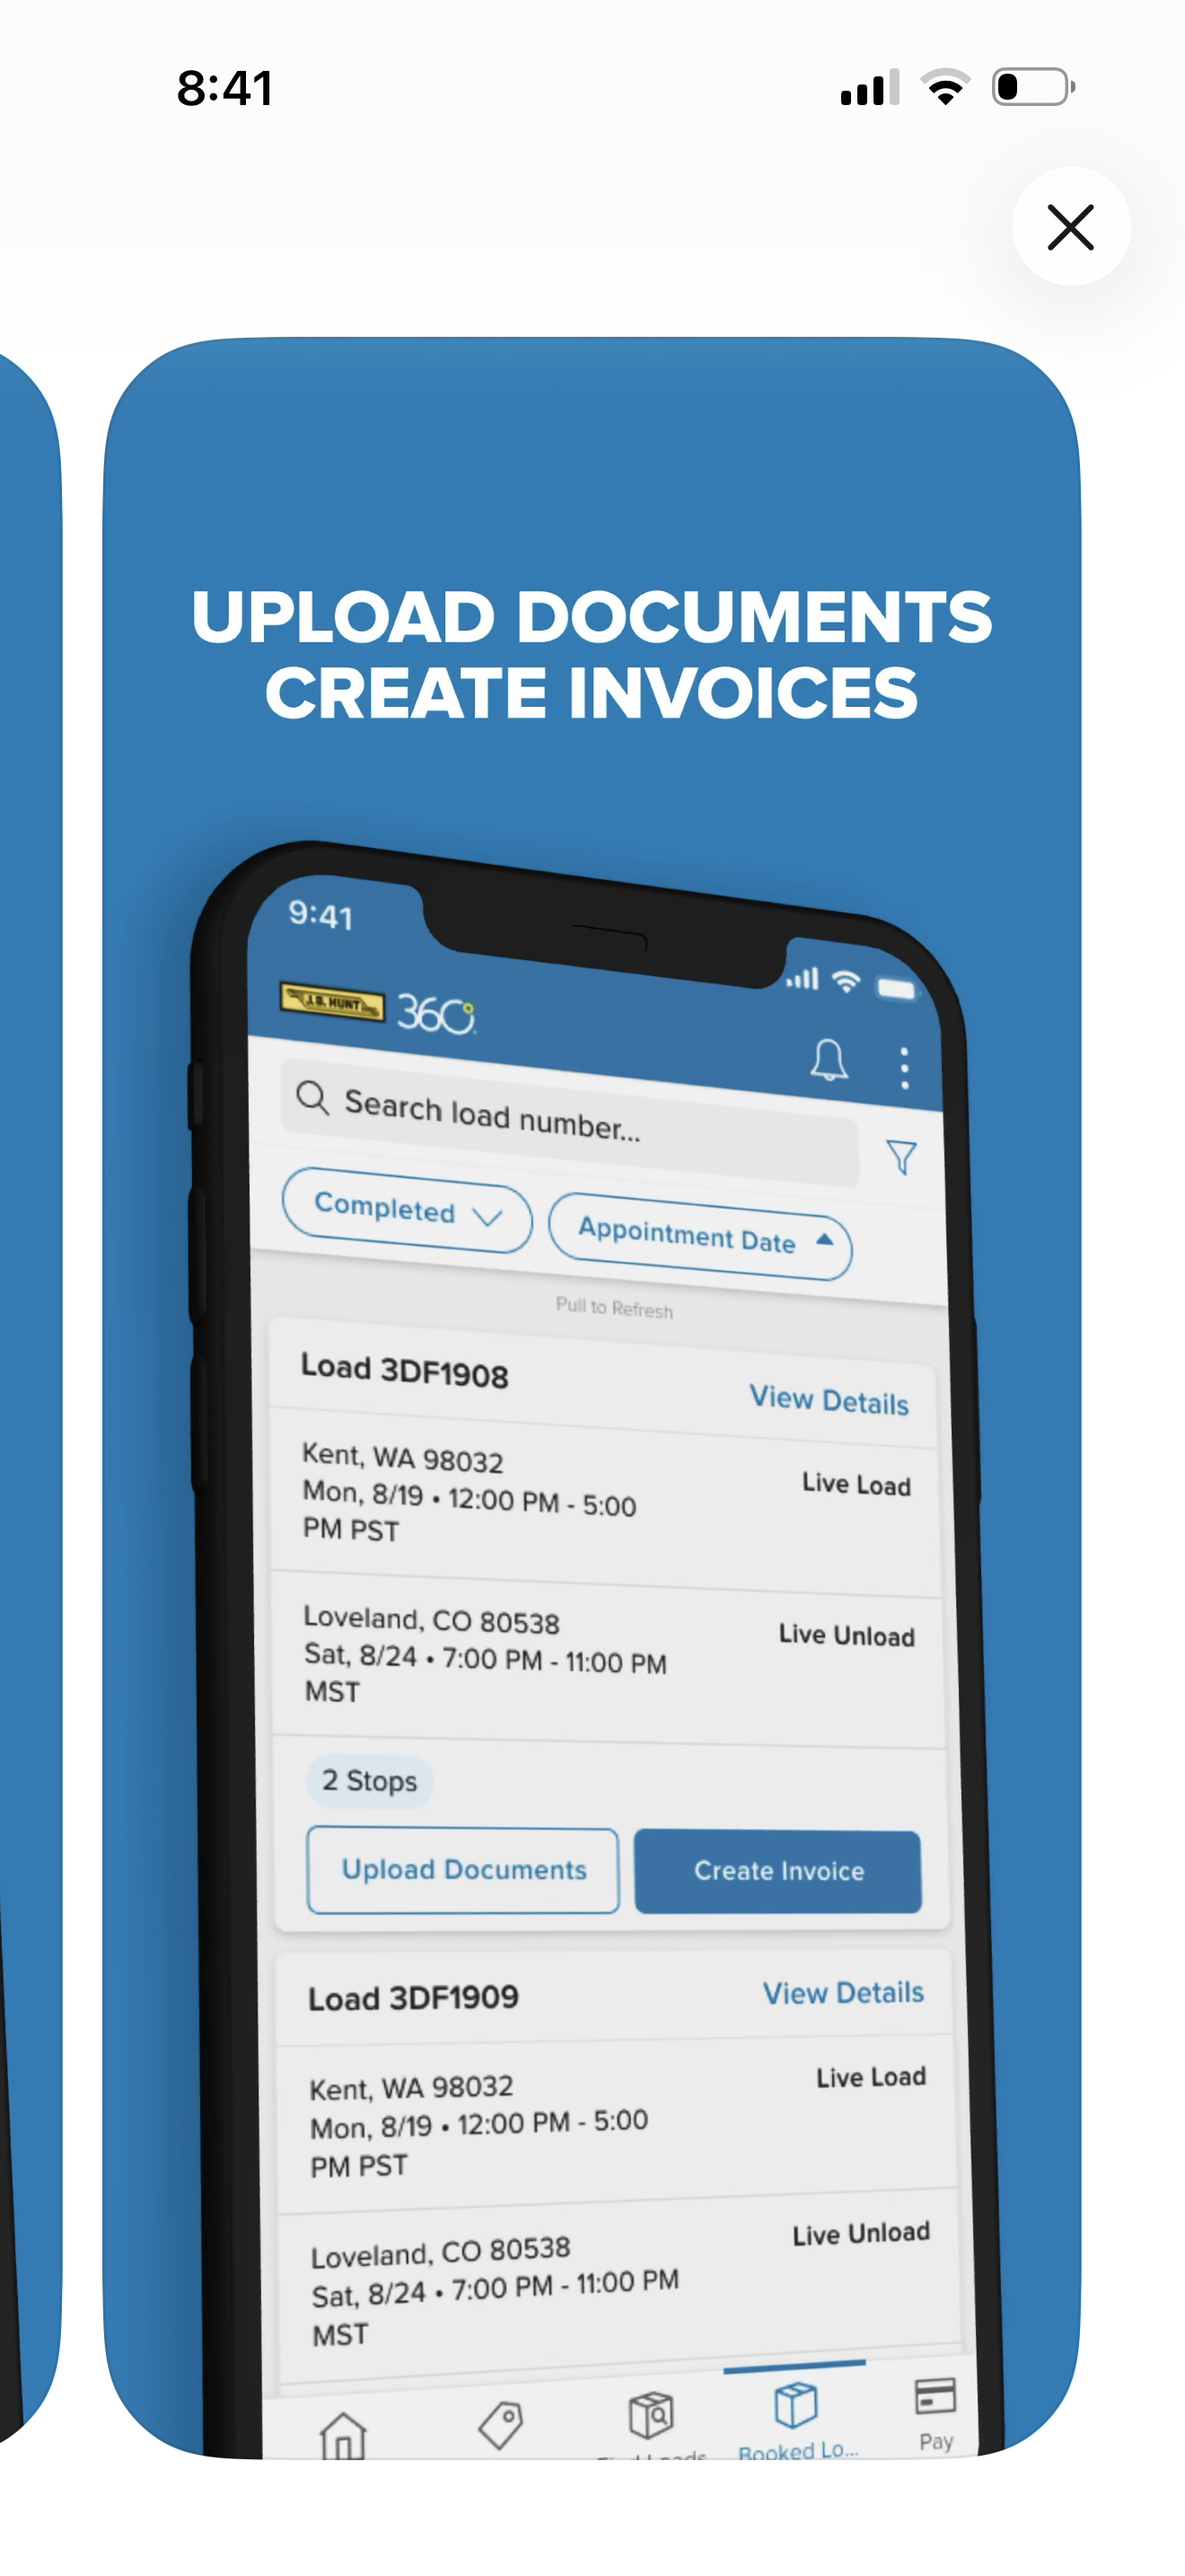
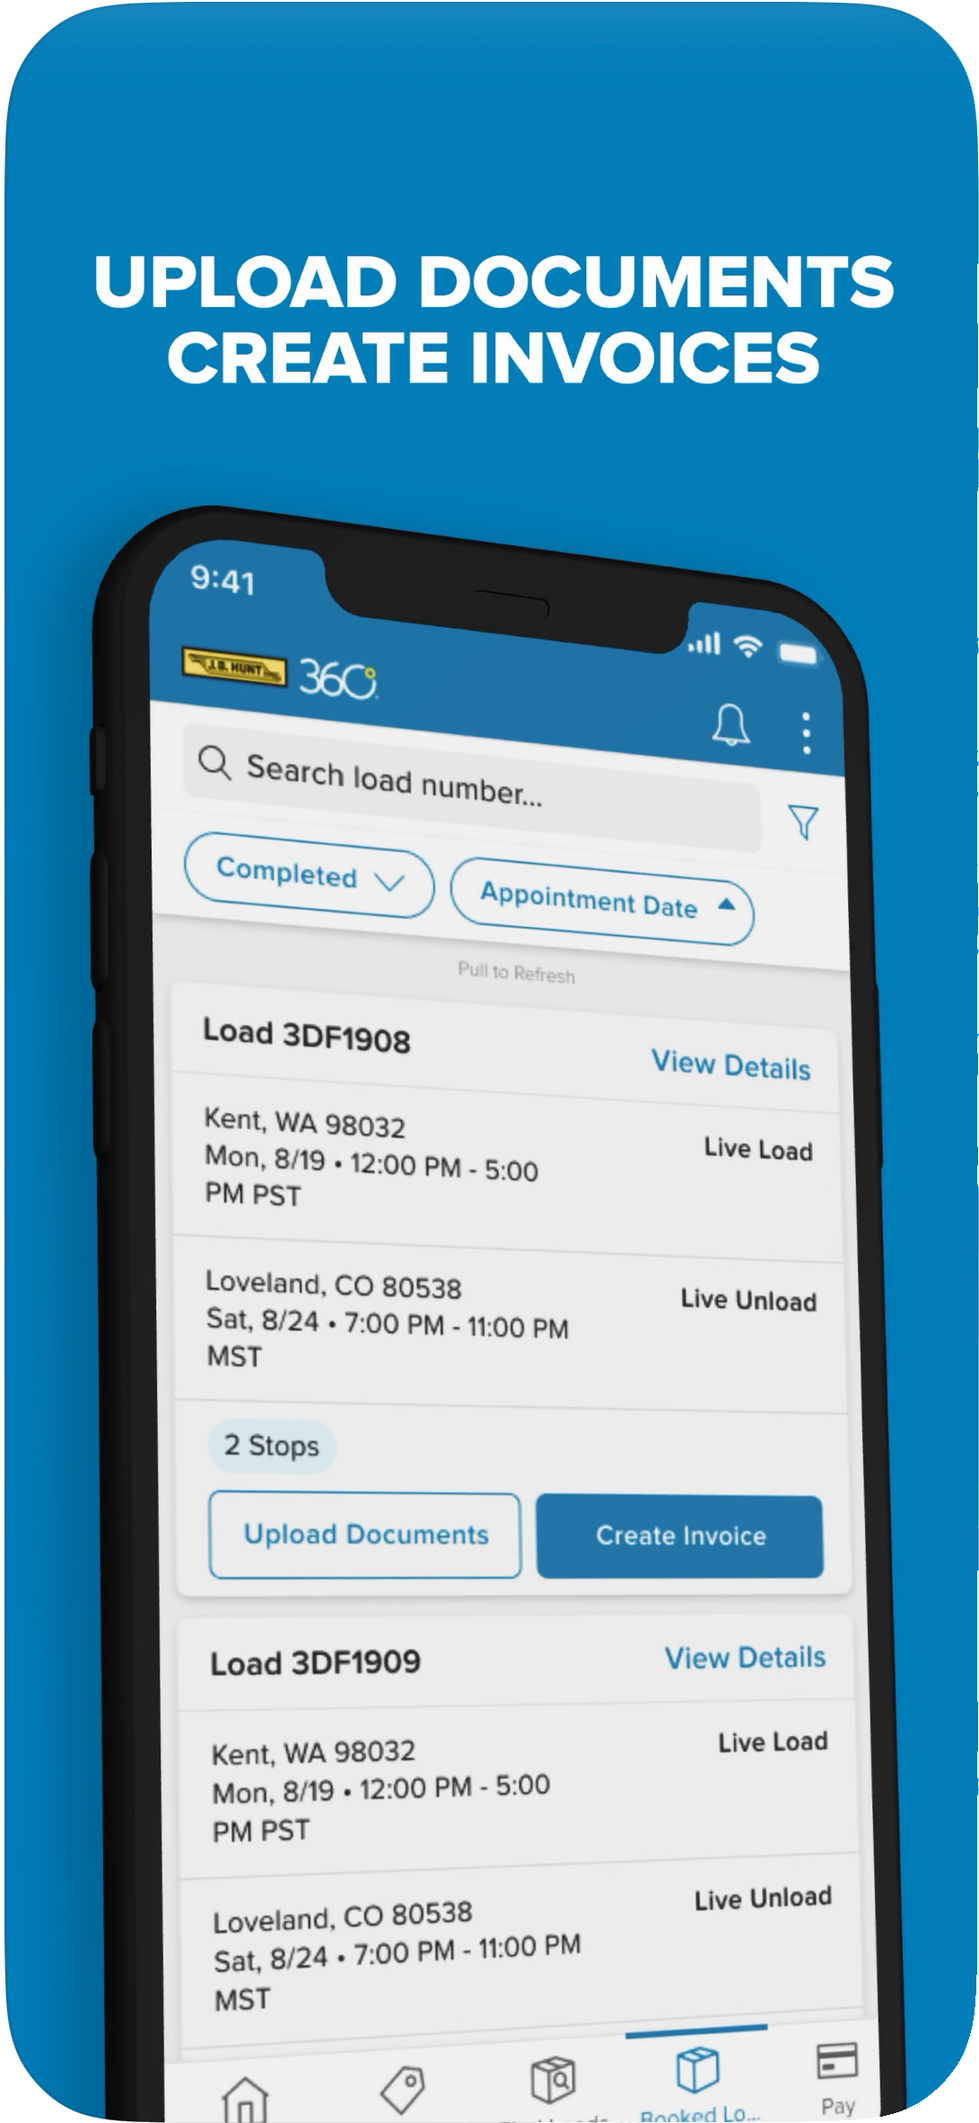
Add Carrier 360 hero images and remove remaining placeholders
Replace the hero placeholder with a 5-up row of the jbh_1..jbh_5 promo
cards, in order, wired to the existing lightbox. Adds .shot-grid--five:
five columns from 720px, stacking to a single capped column below that.

Remove the three inline placeholders under Key UX Decisions. No
placeholder frames remain on the page.

The source PNGs were also replaced upstream (1320x2868 -> 1091x2364);
the WebP variants and width/height attributes match the new files.

diff --git a/work/carrier-360.html b/work/carrier-360.html
@@ -110,8 +110,152 @@
         </p>
       </header>
 
-      <div class="placeholder placeholder--story reveal">
-        [ Carrier 360 — hero: load board, lifecycle load cards, and core carrier workflow screens ]
+      <div class="shot-grid shot-grid--five reveal">
+        <figure class="shot">
+          <button
+            class="shot__btn"
+            type="button"
+            data-lightbox
+            data-full="../assets/images/jbh_1@2x.webp"
+            data-full-fallback="../assets/images/jbh_1.png"
+          >
+            <picture>
+              <source
+                type="image/webp"
+                srcset="
+                  ../assets/images/jbh_1.webp     660w,
+                  ../assets/images/jbh_1@2x.webp 1091w
+                "
+                sizes="(min-width: 1140px) 196px, (min-width: 720px) 17vw, 300px"
+              />
+              <img
+                class="shot__img"
+                src="../assets/images/jbh_1.png"
+                alt="Carrier 360 &quot;Find loads near you&quot; — two phones showing the load board with search results, appointment dates, and a save-to-favourites action"
+                width="1091"
+                height="2364"
+                loading="eager"
+                fetchpriority="high"
+              />
+            </picture>
+          </button>
+        </figure>
+
+        <figure class="shot">
+          <button
+            class="shot__btn"
+            type="button"
+            data-lightbox
+            data-full="../assets/images/jbh_2@2x.webp"
+            data-full-fallback="../assets/images/jbh_2.png"
+          >
+            <picture>
+              <source
+                type="image/webp"
+                srcset="
+                  ../assets/images/jbh_2.webp     660w,
+                  ../assets/images/jbh_2@2x.webp 1091w
+                "
+                sizes="(min-width: 1140px) 196px, (min-width: 720px) 17vw, 300px"
+              />
+              <img
+                class="shot__img"
+                src="../assets/images/jbh_2.png"
+                alt="Load board detail — load cards showing Live Load and Live Unload windows, stop count, equipment type, and a Place Offer action above the tab bar"
+                width="1091"
+                height="2364"
+                loading="eager"
+              />
+            </picture>
+          </button>
+        </figure>
+
+        <figure class="shot">
+          <button
+            class="shot__btn"
+            type="button"
+            data-lightbox
+            data-full="../assets/images/jbh_3@2x.webp"
+            data-full-fallback="../assets/images/jbh_3.png"
+          >
+            <picture>
+              <source
+                type="image/webp"
+                srcset="
+                  ../assets/images/jbh_3.webp     660w,
+                  ../assets/images/jbh_3@2x.webp 1091w
+                "
+                sizes="(min-width: 1140px) 196px, (min-width: 720px) 17vw, 300px"
+              />
+              <img
+                class="shot__img"
+                src="../assets/images/jbh_3.png"
+                alt="Carrier 360 &quot;Save favorite lanes&quot; — the Save to Favorites dialog with origin, destination, deadhead radius, and equipment type fields"
+                width="1091"
+                height="2364"
+                loading="eager"
+              />
+            </picture>
+          </button>
+        </figure>
+
+        <figure class="shot">
+          <button
+            class="shot__btn"
+            type="button"
+            data-lightbox
+            data-full="../assets/images/jbh_4@2x.webp"
+            data-full-fallback="../assets/images/jbh_4.png"
+          >
+            <picture>
+              <source
+                type="image/webp"
+                srcset="
+                  ../assets/images/jbh_4.webp     660w,
+                  ../assets/images/jbh_4@2x.webp 1091w
+                "
+                sizes="(min-width: 1140px) 196px, (min-width: 720px) 17vw, 300px"
+              />
+              <img
+                class="shot__img"
+                src="../assets/images/jbh_4.png"
+                alt="Carrier 360 &quot;Submit check calls&quot; — the step-guided check call form for Stop 2 at Meta Warehouse, with date and arrival time fields"
+                width="1091"
+                height="2364"
+                loading="eager"
+              />
+            </picture>
+          </button>
+        </figure>
+
+        <figure class="shot">
+          <button
+            class="shot__btn"
+            type="button"
+            data-lightbox
+            data-full="../assets/images/jbh_5@2x.webp"
+            data-full-fallback="../assets/images/jbh_5.png"
+          >
+            <picture>
+              <source
+                type="image/webp"
+                srcset="
+                  ../assets/images/jbh_5.webp     660w,
+                  ../assets/images/jbh_5@2x.webp 1091w
+                "
+                sizes="(min-width: 1140px) 196px, (min-width: 720px) 17vw, 300px"
+              />
+              <img
+                class="shot__img"
+                src="../assets/images/jbh_5.png"
+                alt="Carrier 360 &quot;Upload documents, create invoices&quot; — booked loads with Upload Documents and Create Invoice actions on each card"
+                width="1091"
+                height="2364"
+                loading="eager"
+              />
+            </picture>
+          </button>
+        </figure>
       </div>
 
       <!-- ==================== AT A GLANCE ==================== -->
@@ -209,10 +353,6 @@
           rather than rebuilding them each session.
         </p>
 
-        <div class="placeholder placeholder--inline">
-          [ Load board and filtering surface — 35 results, Save to Favorite Searches, Appointment Date sort, load cards with Live Load/Live Unload status ]
-        </div>
-
         <p class="story-h4">Lifecycle-based load card architecture</p>
         <p>
           Load cards were redesigned to surface contextual, stage-relevant information
@@ -222,10 +362,6 @@
           once. This reduced cognitive load in high-density workflows and improved
           decision clarity at each stage.
         </p>
-
-        <div class="placeholder placeholder--inline">
-          [ Lifecycle load cards — booked loads with Upload Documents and Create Invoice CTAs, contextual stage-relevant actions ]
-        </div>
 
         <p class="story-h4">Detention and document management</p>
         <p>
@@ -243,10 +379,6 @@
           details — location, appointment time, expected arrival — and guides the
           driver through a single focused step rather than a generic free-form update.
         </p>
-
-        <div class="placeholder placeholder--inline">
-          [ Check call submission — Step 1/1 Date and Time Information, Stop 2 META WAREHOUSE, set arrival time form ]
-        </div>
 
         <p class="story-h4">Incremental modernization</p>
         <p>

diff --git a/css/styles.css b/css/styles.css
@@ -1181,6 +1181,22 @@ ul {
   .shot-grid--trio {
     grid-template-columns: repeat(3, minmax(0, 1fr));
   }
+
+  .shot-grid--five {
+    grid-template-columns: repeat(5, minmax(0, 1fr));
+  }
+
+  .shot-grid--five .shot {
+    max-width: none;
+  }
+}
+
+/* Stacked below 720px — cap and centre so a single 1:2.2 promo card
+   doesn't run the full container width */
+.shot-grid--five .shot {
+  width: 100%;
+  max-width: 300px;
+  margin-inline: auto;
 }
 
 /* Portrait phone screenshots (roughly 1:2) are centered on a panel rather
